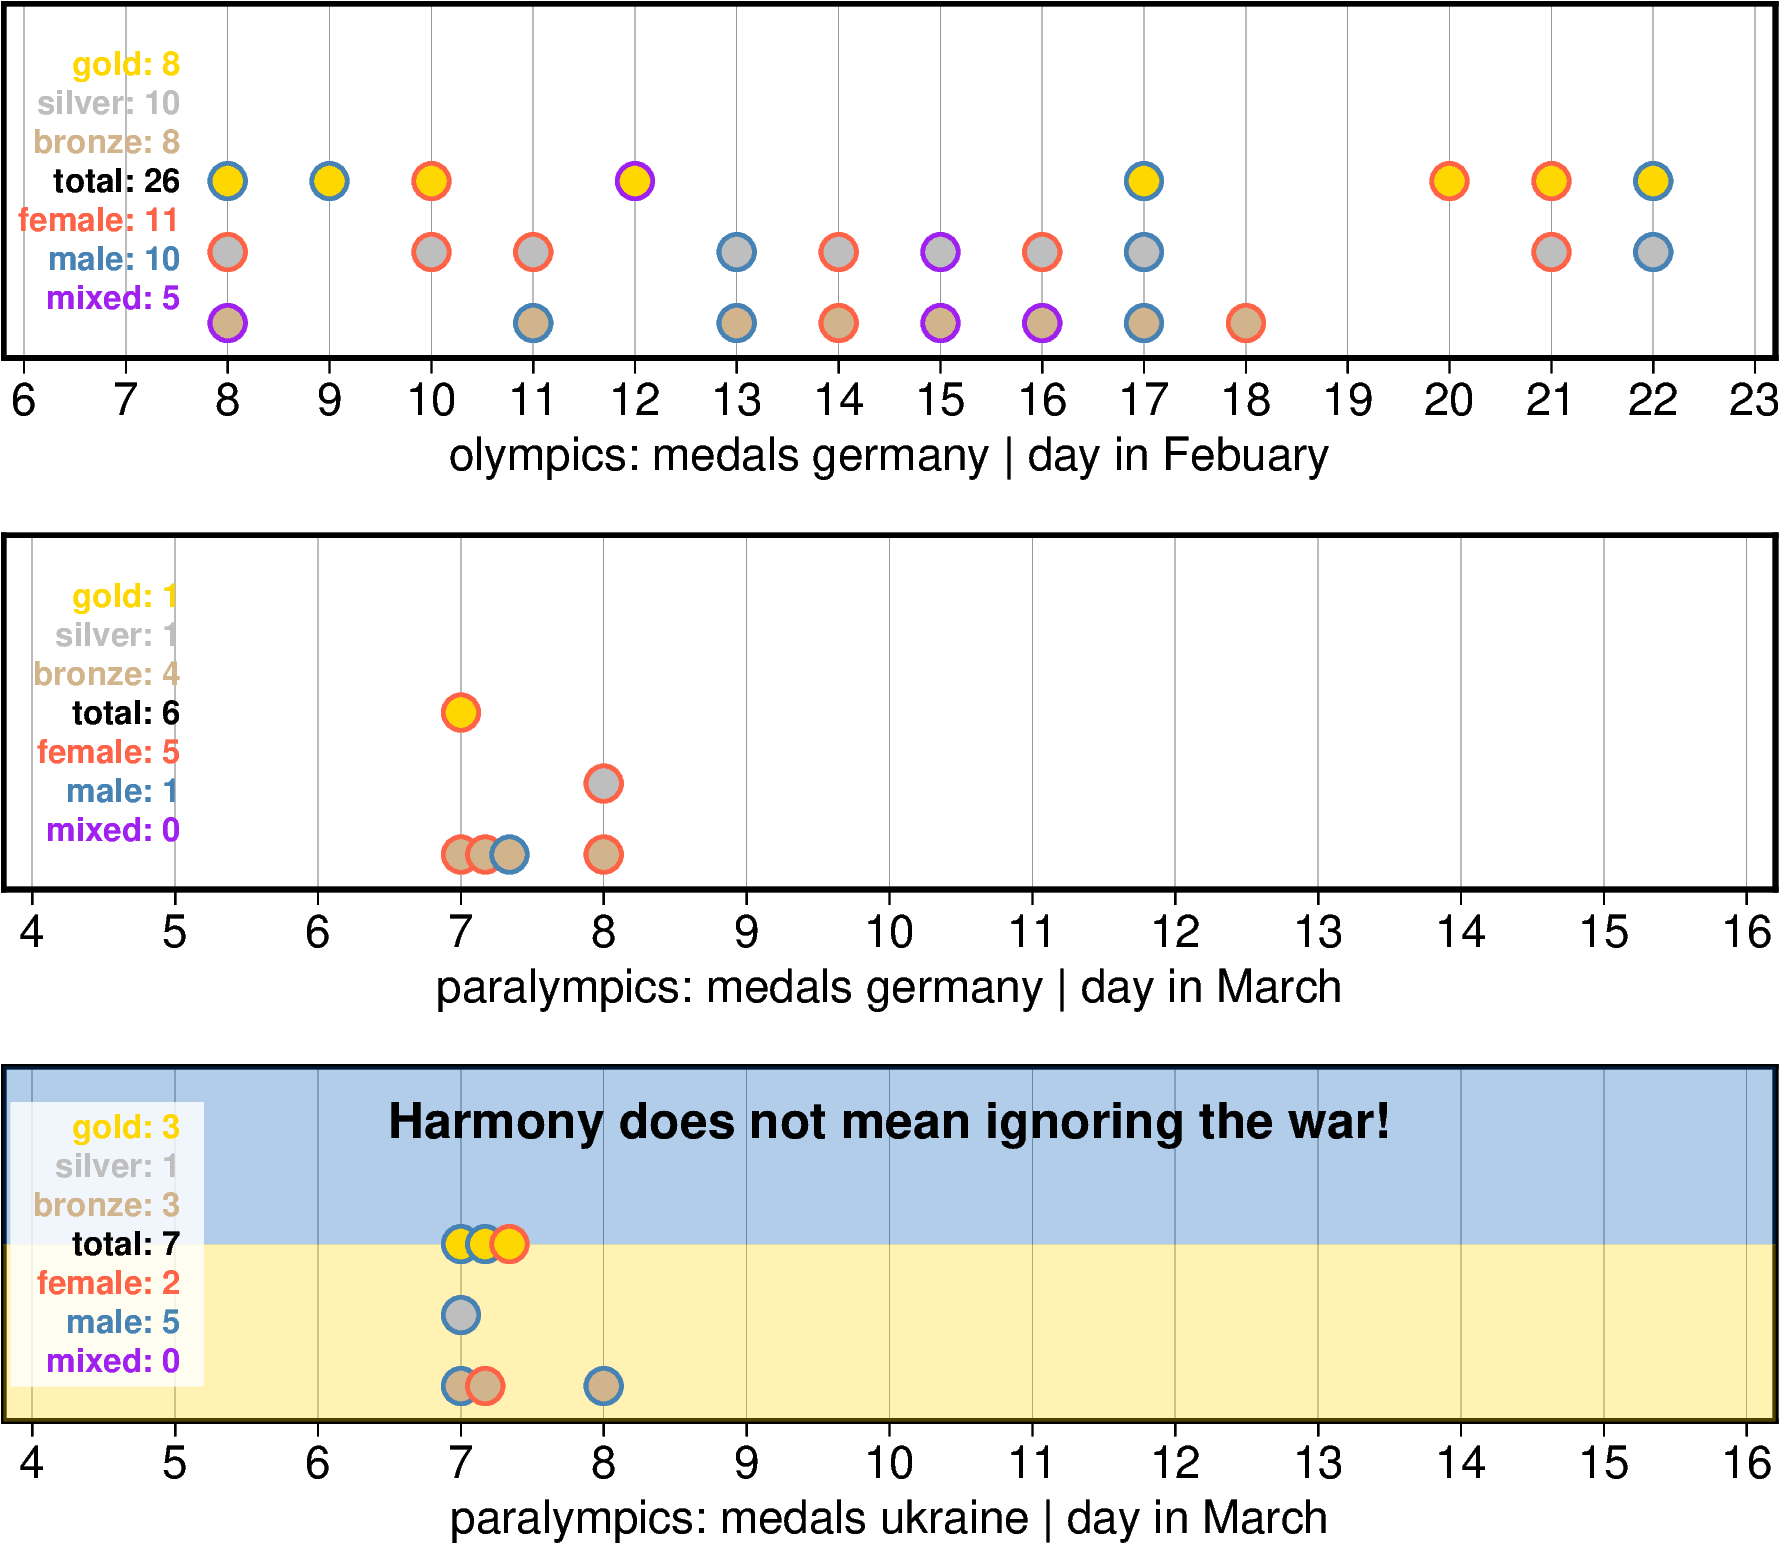
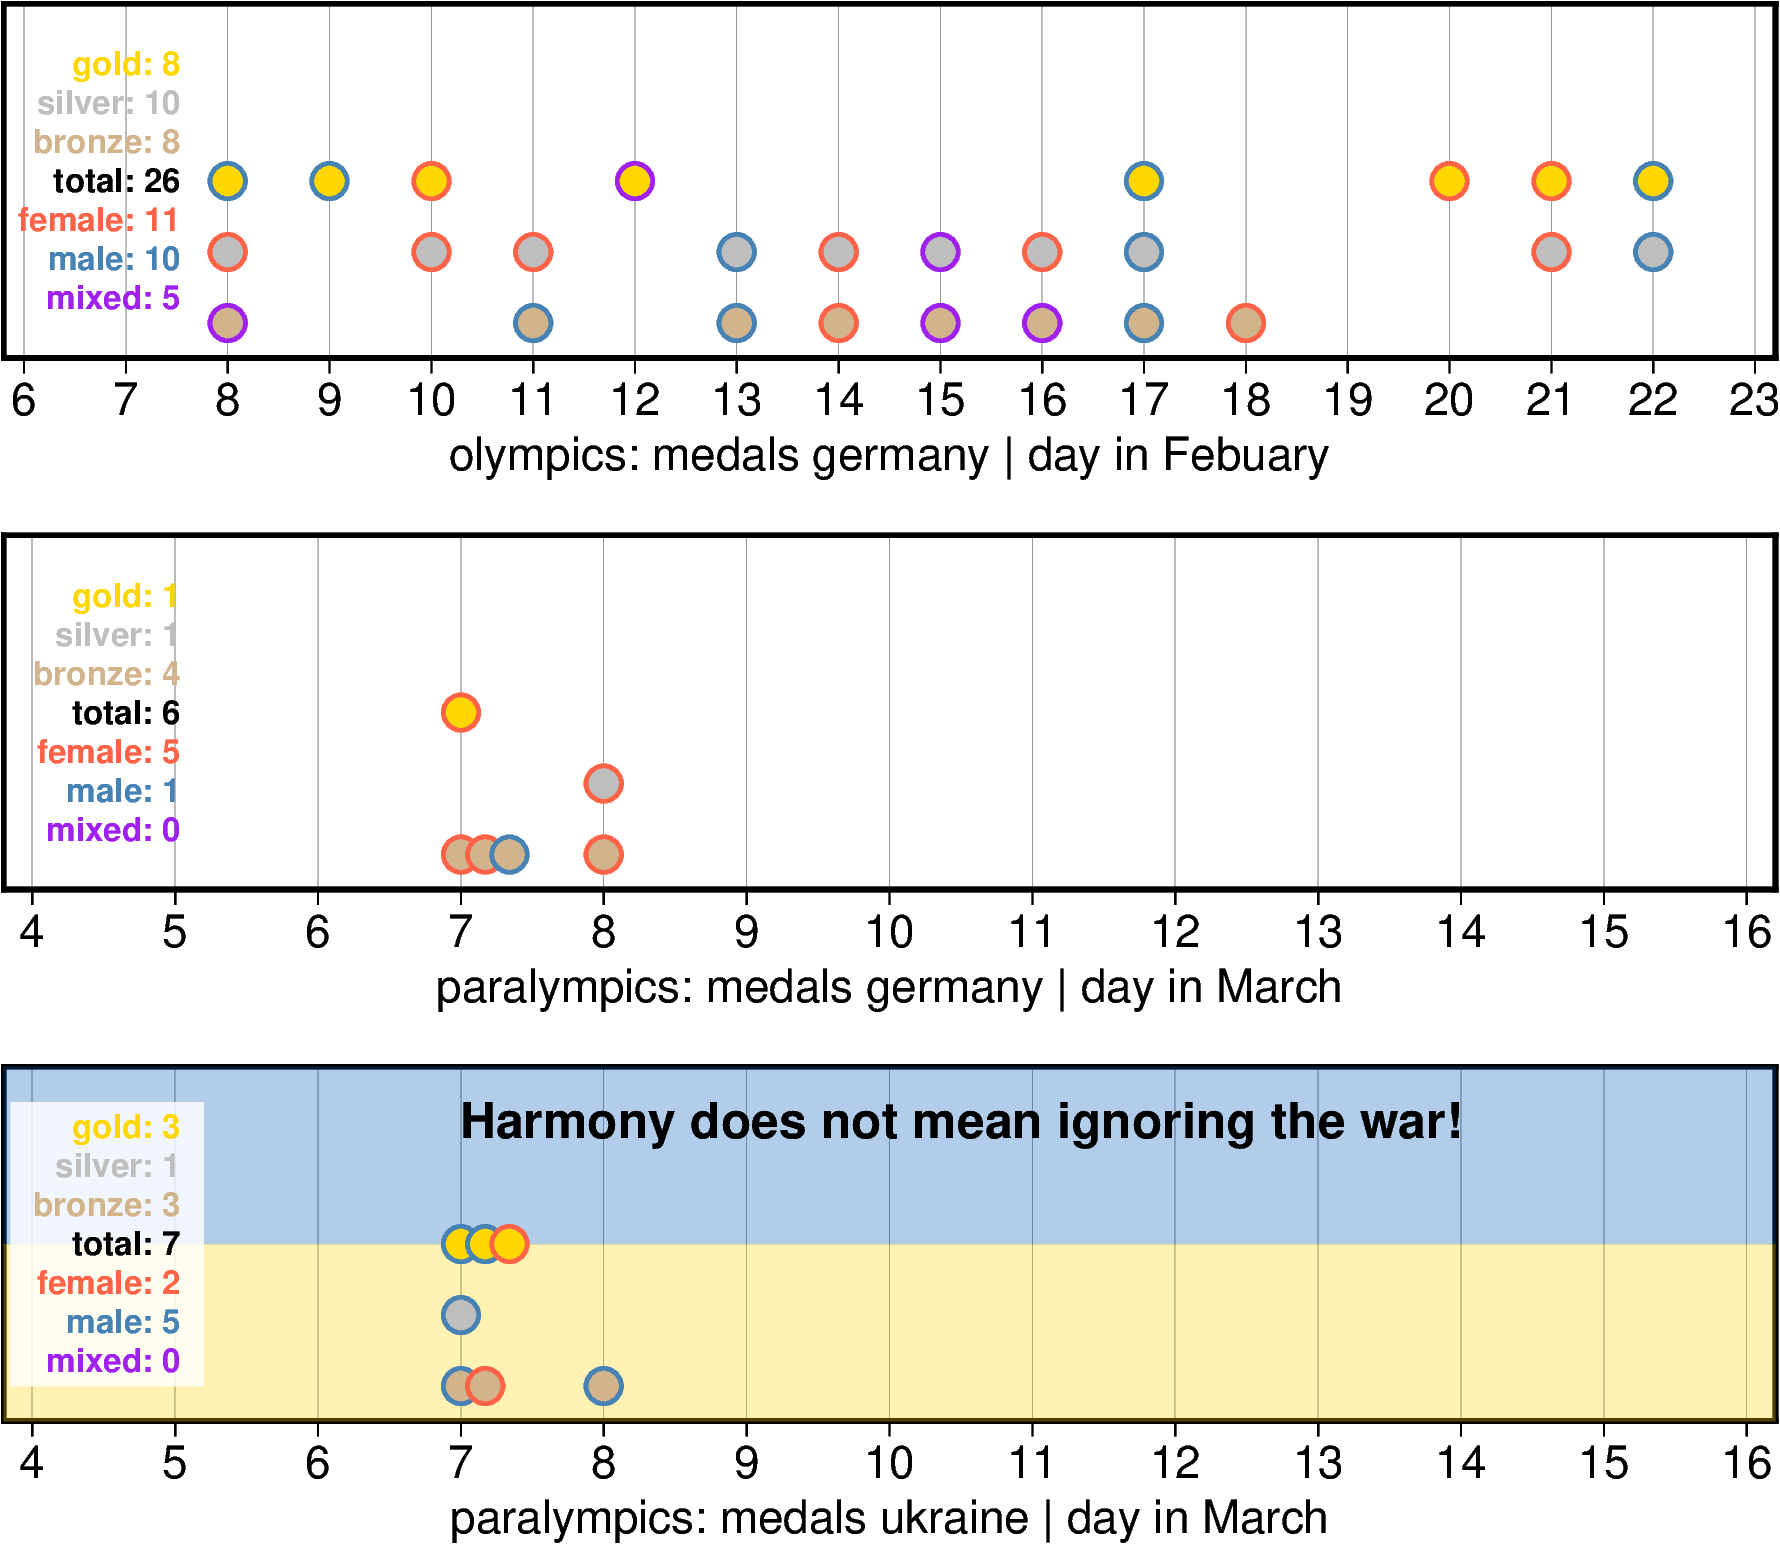
Adjust text x position

Changed region(s): [[0.2163, 0.7136, 0.8343, 0.7447]]

diff --git a/016_winter_games_2026/05_medals.py b/016_winter_games_2026/05_medals.py
@@ -65,7 +65,7 @@ for subplot in ["olympics", "paralympics", "paralympics_uk"]:
         fig.plot(x=uk_x, y=[0.5, 0.5, 1, 1, 0.5], fill=f"{color_uk_blue}@70")
         fig.plot(x=uk_x, y=[0, 0, 0.5, 0.5, 0], fill=f"{color_uk_yellow}@70")
         fig.text(
-            x=10,
+            x=10.5,
             y=0.85,
             text="Harmony does not mean ignoring the war!",
             font="12p,1",
